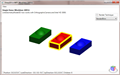
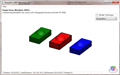
workitem 10051 solved (fix).

diff --git a/Source/Examples/WPF.SharpDX/ExampleBrowser/Workitems/Workitem10051/MainWindow.xaml b/Source/Examples/WPF.SharpDX/ExampleBrowser/Workitems/Workitem10051/MainWindow.xaml
@@ -74,7 +74,7 @@
             <htx:MeshGeometryModel3D Geometry="{StaticResource Model}" Transform="{StaticResource Model1Transform}" Material="{x:Static htx:PhongMaterials.Red}"/>
             <htx:MeshGeometryModel3D Geometry="{StaticResource Model}" Transform="{StaticResource Model2Transform}" Material="{x:Static htx:PhongMaterials.Green}"/>
             <htx:MeshGeometryModel3D Geometry="{StaticResource Model}" Transform="{StaticResource Model3Transform}" Material="{x:Static htx:PhongMaterials.Blue}"/>
-            <htx:LineGeometryModel3D Geometry="{StaticResource Lines}" Transform="{StaticResource Model1Transform}" Color="{x:Static sdx:Color.Black}" Thickness="5"/>
+            <htx:LineGeometryModel3D Geometry="{StaticResource Lines}" Transform="{StaticResource Model1Transform}" Color="{x:Static sdx:Color.Black}" Thickness="1.5"/>
         </htx:Viewport3DX>
 
         <StackPanel Grid.Row="1" Margin="0 24 0 0">
